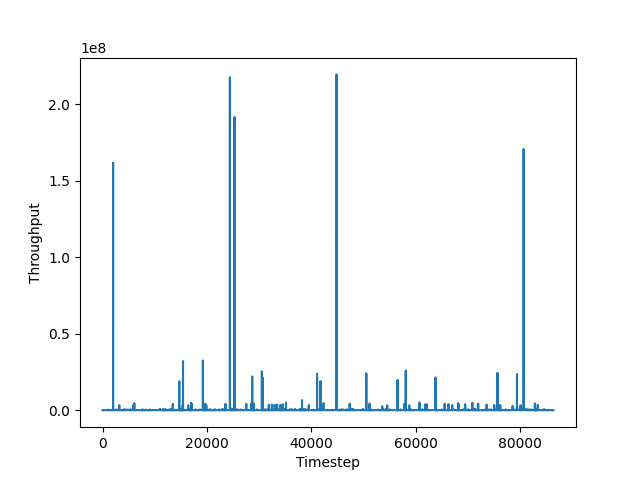
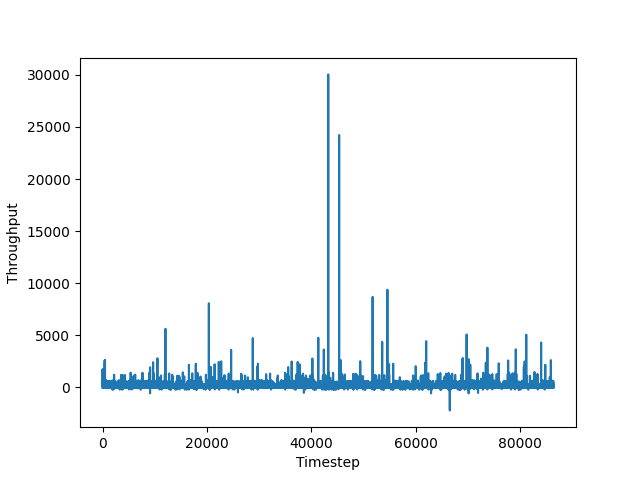
0.0.41

diff --git a/environment/environment.py b/environment/environment.py
@@ -48,8 +48,8 @@ class Env:
     def getState(self):
         self.cluster = [
             Uav(
-                v=np.random.uniform(150, 190),
-                tx=np.random.uniform(21, 27) + self.reward if self.uavId == id else np.random.uniform(21, 27),
+                v=np.random.uniform(80, 100),
+                tx=np.random.uniform(21, 27) + self.reward/2 if self.uavId == id else np.random.uniform(21, 27),
                 noise=174,
                 baseStationCoords=self.baseStationCoords
             ) for id in range(self.noUav)
@@ -91,7 +91,7 @@ class Env:
             self.done = True
             
         self.reward = self.calcReward(action)
-        if self.current%self.windowSize or self.current==1:
+        if self.current%(2*self.windowSize) or self.current==1:
             self.totalReward.append(self.reward)
             th = [item[2] for item in self.state]
             self.throughput.append(th)
@@ -101,21 +101,47 @@ class Env:
         
         return step, self.reward, self.done
     
+    # def plotThroughput(self):
+    #     uavThroughputs = list(map(list, zip(*self.throughput)))
+    #     timestep = range(len(self.throughput))
+    #     cmap = get_cmap('viridis')
+        
+    #     fig, ax = plt.subplots(figsize=(10, 5)) 
+        
+    #     for uavIdx, uavData in enumerate(uavThroughputs):
+    #         color = cmap(uavIdx / len(uavThroughputs))
+    #         ax.plot(timestep, uavData, label=f'UAV {uavIdx + 1}', color=color)
+            
+    #     ax.set_xlabel('Timestep')
+    #     ax.set_ylabel('Throughput')
+    #     ax.legend(loc='upper left', bbox_to_anchor=(1, 1))
+    #     plt.savefig('throughputGraphs/throughput.png')
+    
     def plotThroughput(self):
         uavThroughputs = list(map(list, zip(*self.throughput)))
         timestep = range(len(self.throughput))
         cmap = get_cmap('viridis')
-        
-        fig, ax = plt.subplots(figsize=(10, 5)) 
-        
+
+        # Check if the directory exists, create if not
+        os.makedirs('throughputGraphs', exist_ok=True)
+
+        # Counter variable for plot index
+        plot_index = 1
+
         for uavIdx, uavData in enumerate(uavThroughputs):
             color = cmap(uavIdx / len(uavThroughputs))
+            fig, ax = plt.subplots(figsize=(10, 5))
+
             ax.plot(timestep, uavData, label=f'UAV {uavIdx + 1}', color=color)
+            ax.set_xlabel('Timestep')
+            ax.set_ylabel('Throughput')
+            ax.legend(loc='upper left', bbox_to_anchor=(1, 1))
             
-        ax.set_xlabel('Timestep')
-        ax.set_ylabel('Throughput')
-        ax.legend(loc='upper left', bbox_to_anchor=(1, 1))
-        plt.savefig('throughputGraphs/throughput.png')
+            # Save the plot to the 'throughputGraphs/' directory with a unique index
+            plt.savefig(f'throughputGraphs/throughput_{plot_index}.png')
+
+            # Increment the counter
+            plot_index += 1
     
     def plotRewards(self):
         timestep = range(len(self.totalReward))

diff --git a/environment/dataset.py b/environment/dataset.py
@@ -3,12 +3,12 @@ import math
 
 class Uav:
     def __init__(self, v, tx, noise, baseStationCoords):
-        self.v = v # Velocity
-        self.tx = tx * self.v # Transmission Power
-        self.noise = noise # Extra Noise (eg. Thermal)
+        self.v = v # Velocity Kmph
+        self.tx = tx * self.v # Transmission Power dBm
+        self.noise = noise # Extra Noise dB
         self.intref = np.random.rand()*tx # Induce Noise
         self.base = baseStationCoords 
-        self.coords = (np.random.uniform(0, 100), np.random.uniform(0, 100))
+        self.coords = (np.random.uniform(0, 200), np.random.uniform(0, 200))
         self.d = self.calcDist()
         self.chGain = (1/self.d) * self.v # Channel Gain
         
@@ -33,9 +33,18 @@ class Uav:
         dinom = self.noise + self.intref
         return numerator/dinom
     
+    # def calcThroughput(self):
+    #     snir = self.calcSNIR()
+    #     return self.B * (np.log2(1 + snir))
+    
     def calcThroughput(self):
-        snir = self.calcSNIR()
-        return self.B * (np.log2(1 + snir))
+        try:
+            snir = self.calcSNIR()
+            return self.B * (np.log2(1 + snir))
+        except RuntimeWarning as warning:
+            print(f"Warning: {warning}")
+            print(f"Values causing the warning - snir: {snir}, B: {self.B}")
+            return np.nan
     
 class Dataset:
     def __init__(self, noUav, timestep):
@@ -47,7 +56,7 @@ class Dataset:
     def genDataset(self, idx, reward):
         for t in range(self.timestep):
             self.cluster = [Uav(
-            v=np.random.uniform(150, 190),
+            v=np.random.uniform(150, 190), #
             tx=np.random.uniform(21, 27) + reward if idx == id else np.random.uniform(21, 27),
             noise=174,
             baseStationCoords=self.baseStationCoords

diff --git a/main.py b/main.py
@@ -2,7 +2,7 @@ import numpy as np
 from environment.environment import Uav, Env
 from environment.dataset import Dataset
 
-# env = Env(10, windowSize=2, end=10)
+# env = Env(10, windowSize=100, end=1000)
 env = Env(10)
 current = env.reset()
 # print(current)
@@ -12,11 +12,10 @@ print(env.observationSpace.shape)
 while True:
     action = env.actionSpace.sample()
     state, reward, done = env.step(action)
-    print(done, reward, env.uavId)
-    print(reward)
-    print(env.uavId)
+    # print(done, reward, env.uavId)
+    # print(reward)
+    # print(env.uavId)
     if done:
-        env.render()
         # print(state)
         # print(env.uavId)
         for _, uav in enumerate(env.cluster):
@@ -24,6 +23,7 @@ while True:
             throughtput = uav.calcThroughput()
             print([uav.tx, snir, throughtput])
         break
+env.render()
 
 # print(env.cluster[0].calcThroughput())
 # # print(4e+7)
